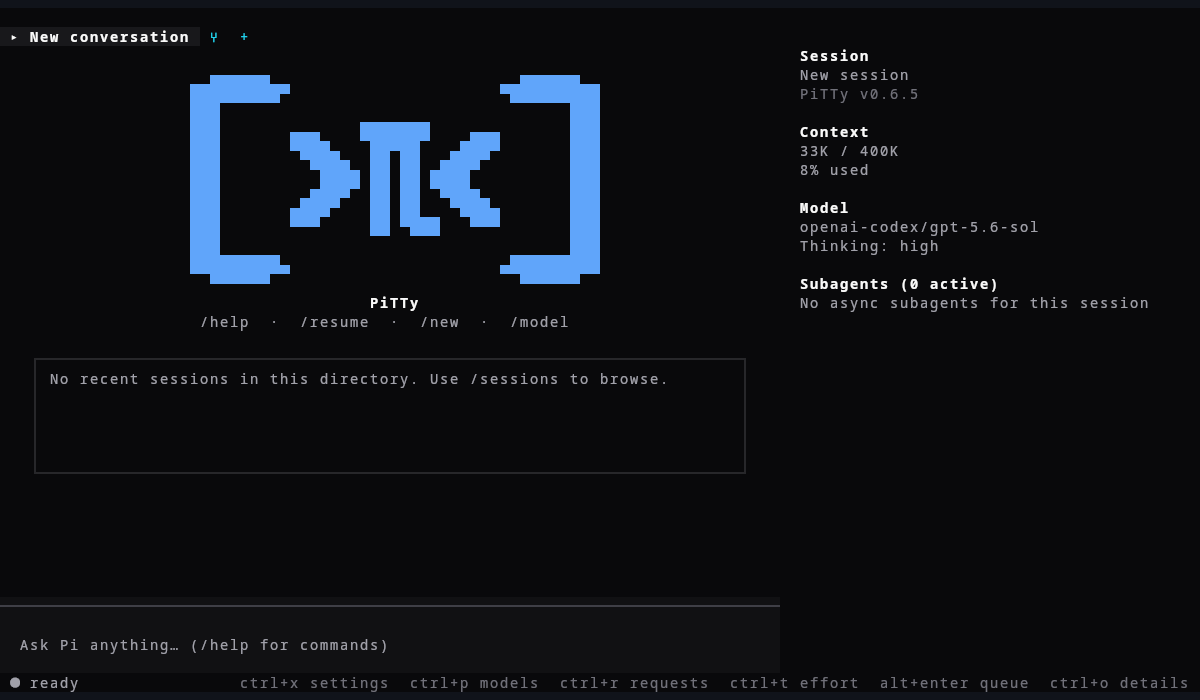
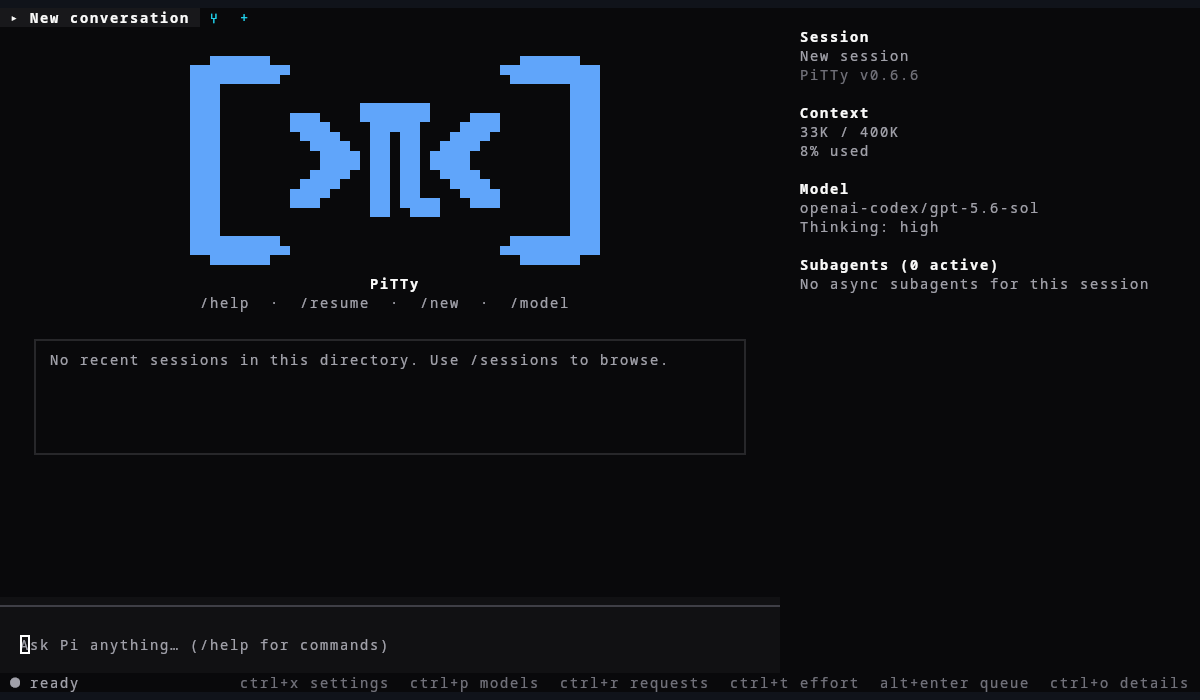
release: v0.6.6

Changed region(s): [[0.0308, 0.06, 0.555, 0.57], [0.6475, 0.03, 0.9558, 0.45], [0.0, 0.0, 0.1542, 0.06]]

diff --git a/docs/screenshots/conversation.html b/docs/screenshots/conversation.html
@@ -1,33 +1,33 @@
-<!doctype html><meta charset="utf-8"><title>PiTTy conversation ANSI diagnostic</title><style>body{background:#10131a;color:#d8dee9}pre{font:14px monospace;line-height:17px;white-space:pre}.red{color:#f66}.green{color:#6f6}.yellow{color:#ff6}.cyan{color:#6ff}.magenta{color:#f6f}.white{color:#fff}</style><pre>
- ▸ New conversation  ⑂  +&nbsp;
-▄ │                                                                             Session
-  │  Review the release workflow and summarize the risks.                       Mock Pi Session
-  │                                                                             PiTTy v0.6.5
-
-  │ ▼ Thinking                                            1 line · collapse     Context
-  │ I will inspect the workflow and verify the release path.                    — / 400K
+<!doctype html><meta charset="utf-8"><title>PiTTy conversation ANSI diagnostic</title><style>body{background:#10131a;color:#d8dee9}pre{font:14px monospace;line-height:17px;white-space:pre}.red{color:#f66}.green{color:#6f6}.yellow{color:#ff6}.cyan{color:#6ff}.magenta{color:#f6f}.white{color:#fff}</style><pre> ▸ New conversation  ⑂  +&nbsp;
+                                                                                Session
+  │                                                                             Mock Pi Session
+  │  Review the release workflow and summarize the risks.                       PiTTy v0.6.6
+  │&nbsp;&nbsp;&nbsp;&nbsp;&nbsp;&nbsp;&nbsp;&nbsp;&nbsp;&nbsp;&nbsp;&nbsp;&nbsp;&nbsp;&nbsp;&nbsp;&nbsp;&nbsp;&nbsp;&nbsp;&nbsp;&nbsp;&nbsp;&nbsp;&nbsp;&nbsp;&nbsp;&nbsp;&nbsp;&nbsp;&nbsp;&nbsp;&nbsp;&nbsp;&nbsp;&nbsp;&nbsp;&nbsp;&nbsp;&nbsp;&nbsp;&nbsp;&nbsp;&nbsp;&nbsp;&nbsp;&nbsp;&nbsp;&nbsp;&nbsp;&nbsp;&nbsp;&nbsp;&nbsp;&nbsp;&nbsp;&nbsp;&nbsp;&nbsp;&nbsp;&nbsp;&nbsp;&nbsp;&nbsp;&nbsp;&nbsp;&nbsp;&nbsp;&nbsp;&nbsp;&nbsp;&nbsp;
+                                                                                Context
+  │ ▼ Thinking                                           1 line · collapse      33K / 400K
+  │ I will inspect the workflow and verify the release path.                    8% used
   │
   │ The workflow is ready. I found one portability edge case and corrected      Model
   │ it.                                                                         openai-codex/gpt-5.6-sol
                                                                                 Thinking: high
-  <span class="green">│</span><span class="green">&nbsp;</span><span class="green"></span><span class="green">▣ TOOL · bash</span><span class="green">  { "command": "bun run typecheck" }</span><span class="green">&nbsp;&nbsp;&nbsp;&nbsp;&nbsp;&nbsp;&nbsp;&nbsp;&nbsp;&nbsp;&nbsp;&nbsp;&nbsp;&nbsp;</span><span class="green">took 0ms</span><span class="green">&nbsp;</span><span class="green">
-&nbsp;&nbsp;</span><span class="green"></span><span class="green">│</span><span class="green">&nbsp;</span><span class="green">typecheck passed</span><span class="green">&nbsp;&nbsp;&nbsp;&nbsp;&nbsp;&nbsp;&nbsp;&nbsp;&nbsp;&nbsp;&nbsp;&nbsp;&nbsp;&nbsp;&nbsp;&nbsp;&nbsp;&nbsp;&nbsp;&nbsp;&nbsp;&nbsp;&nbsp;&nbsp;&nbsp;&nbsp;&nbsp;&nbsp;&nbsp;&nbsp;&nbsp;&nbsp;&nbsp;&nbsp;&nbsp;&nbsp;&nbsp;&nbsp;&nbsp;&nbsp;&nbsp;&nbsp;&nbsp;&nbsp;&nbsp;&nbsp;&nbsp;&nbsp;&nbsp;&nbsp;&nbsp;&nbsp;&nbsp;&nbsp;&nbsp;&nbsp;</span><span class="green">&nbsp;&nbsp;&nbsp;&nbsp;</span><span class="green"></span><span class="green">Subagents (0 active)</span>
+  <span class="green">│</span><span class="green">&nbsp;</span><span class="green"></span><span class="green">▣ TOOL · bash</span><span class="green">  { "command": "bun run typecheck" }</span><span class="green">&nbsp;&nbsp;&nbsp;&nbsp;&nbsp;&nbsp;&nbsp;&nbsp;&nbsp;&nbsp;&nbsp;&nbsp;&nbsp;</span><span class="green">took 0ms</span><span class="green">&nbsp;</span><span class="green">
+&nbsp;&nbsp;</span><span class="green"></span><span class="green">│</span><span class="green">&nbsp;</span><span class="green">typecheck passed</span><span class="green">&nbsp;&nbsp;&nbsp;&nbsp;&nbsp;&nbsp;&nbsp;&nbsp;&nbsp;&nbsp;&nbsp;&nbsp;&nbsp;&nbsp;&nbsp;&nbsp;&nbsp;&nbsp;&nbsp;&nbsp;&nbsp;&nbsp;&nbsp;&nbsp;&nbsp;&nbsp;&nbsp;&nbsp;&nbsp;&nbsp;&nbsp;&nbsp;&nbsp;&nbsp;&nbsp;&nbsp;&nbsp;&nbsp;&nbsp;&nbsp;&nbsp;&nbsp;&nbsp;&nbsp;&nbsp;&nbsp;&nbsp;&nbsp;&nbsp;&nbsp;&nbsp;&nbsp;&nbsp;&nbsp;&nbsp;</span><span class="green">&nbsp;&nbsp;&nbsp;&nbsp;&nbsp;</span><span class="green"></span><span class="green">Subagents (0 active)</span>
                                                                                 No async subagents for this session
   │ I also checked the sidebar state and tab ownership.
 
-  │ ◆ TOOL · edit  { "path": "src/app.tsx" }                       took 0ms&nbsp;
-  │ Updated src/app.tsx&nbsp;&nbsp;&nbsp;&nbsp;&nbsp;&nbsp;&nbsp;&nbsp;&nbsp;&nbsp;&nbsp;&nbsp;&nbsp;&nbsp;&nbsp;&nbsp;&nbsp;&nbsp;&nbsp;&nbsp;&nbsp;&nbsp;&nbsp;&nbsp;&nbsp;&nbsp;&nbsp;&nbsp;&nbsp;&nbsp;&nbsp;&nbsp;&nbsp;&nbsp;&nbsp;&nbsp;&nbsp;&nbsp;&nbsp;&nbsp;&nbsp;&nbsp;&nbsp;&nbsp;&nbsp;&nbsp;&nbsp;&nbsp;&nbsp;&nbsp;&nbsp;&nbsp;&nbsp;
-  │ @@ -1 +1 @@&nbsp;&nbsp;&nbsp;&nbsp;&nbsp;&nbsp;&nbsp;&nbsp;&nbsp;&nbsp;&nbsp;&nbsp;&nbsp;&nbsp;&nbsp;&nbsp;&nbsp;&nbsp;&nbsp;&nbsp;&nbsp;&nbsp;&nbsp;&nbsp;&nbsp;&nbsp;&nbsp;&nbsp;&nbsp;&nbsp;&nbsp;&nbsp;&nbsp;&nbsp;&nbsp;&nbsp;&nbsp;&nbsp;&nbsp;&nbsp;&nbsp;&nbsp;&nbsp;&nbsp;&nbsp;&nbsp;&nbsp;&nbsp;&nbsp;&nbsp;&nbsp;&nbsp;&nbsp;&nbsp;&nbsp;&nbsp;&nbsp;&nbsp;&nbsp;&nbsp;&nbsp;
-  │ - stale&nbsp;&nbsp;&nbsp;&nbsp;&nbsp;&nbsp;&nbsp;&nbsp;&nbsp;&nbsp;&nbsp;&nbsp;&nbsp;&nbsp;&nbsp;&nbsp;&nbsp;&nbsp;&nbsp;&nbsp;&nbsp;&nbsp;&nbsp;&nbsp;&nbsp;&nbsp;&nbsp;&nbsp;&nbsp;&nbsp;&nbsp;&nbsp;&nbsp;&nbsp;&nbsp;&nbsp;&nbsp;&nbsp;&nbsp;&nbsp;&nbsp;&nbsp;&nbsp;&nbsp;&nbsp;&nbsp;&nbsp;&nbsp;&nbsp;&nbsp;&nbsp;&nbsp;&nbsp;&nbsp;&nbsp;&nbsp;&nbsp;&nbsp;&nbsp;&nbsp;&nbsp;&nbsp;&nbsp;&nbsp;&nbsp;
-  │ + reactive&nbsp;&nbsp;&nbsp;&nbsp;&nbsp;&nbsp;&nbsp;&nbsp;&nbsp;&nbsp;&nbsp;&nbsp;&nbsp;&nbsp;&nbsp;&nbsp;&nbsp;&nbsp;&nbsp;&nbsp;&nbsp;&nbsp;&nbsp;&nbsp;&nbsp;&nbsp;&nbsp;&nbsp;&nbsp;&nbsp;&nbsp;&nbsp;&nbsp;&nbsp;&nbsp;&nbsp;&nbsp;&nbsp;&nbsp;&nbsp;&nbsp;&nbsp;&nbsp;&nbsp;&nbsp;&nbsp;&nbsp;&nbsp;&nbsp;&nbsp;&nbsp;&nbsp;&nbsp;&nbsp;&nbsp;&nbsp;&nbsp;&nbsp;&nbsp;&nbsp;&nbsp;&nbsp;
+  │ ◆ TOOL · edit  { "path": "src/app.tsx" }                      took 0ms&nbsp;
+  │ Updated src/app.tsx&nbsp;&nbsp;&nbsp;&nbsp;&nbsp;&nbsp;&nbsp;&nbsp;&nbsp;&nbsp;&nbsp;&nbsp;&nbsp;&nbsp;&nbsp;&nbsp;&nbsp;&nbsp;&nbsp;&nbsp;&nbsp;&nbsp;&nbsp;&nbsp;&nbsp;&nbsp;&nbsp;&nbsp;&nbsp;&nbsp;&nbsp;&nbsp;&nbsp;&nbsp;&nbsp;&nbsp;&nbsp;&nbsp;&nbsp;&nbsp;&nbsp;&nbsp;&nbsp;&nbsp;&nbsp;&nbsp;&nbsp;&nbsp;&nbsp;&nbsp;&nbsp;&nbsp;
+  │ @@ -1 +1 @@&nbsp;&nbsp;&nbsp;&nbsp;&nbsp;&nbsp;&nbsp;&nbsp;&nbsp;&nbsp;&nbsp;&nbsp;&nbsp;&nbsp;&nbsp;&nbsp;&nbsp;&nbsp;&nbsp;&nbsp;&nbsp;&nbsp;&nbsp;&nbsp;&nbsp;&nbsp;&nbsp;&nbsp;&nbsp;&nbsp;&nbsp;&nbsp;&nbsp;&nbsp;&nbsp;&nbsp;&nbsp;&nbsp;&nbsp;&nbsp;&nbsp;&nbsp;&nbsp;&nbsp;&nbsp;&nbsp;&nbsp;&nbsp;&nbsp;&nbsp;&nbsp;&nbsp;&nbsp;&nbsp;&nbsp;&nbsp;&nbsp;&nbsp;&nbsp;&nbsp;
+  │ - stale&nbsp;&nbsp;&nbsp;&nbsp;&nbsp;&nbsp;&nbsp;&nbsp;&nbsp;&nbsp;&nbsp;&nbsp;&nbsp;&nbsp;&nbsp;&nbsp;&nbsp;&nbsp;&nbsp;&nbsp;&nbsp;&nbsp;&nbsp;&nbsp;&nbsp;&nbsp;&nbsp;&nbsp;&nbsp;&nbsp;&nbsp;&nbsp;&nbsp;&nbsp;&nbsp;&nbsp;&nbsp;&nbsp;&nbsp;&nbsp;&nbsp;&nbsp;&nbsp;&nbsp;&nbsp;&nbsp;&nbsp;&nbsp;&nbsp;&nbsp;&nbsp;&nbsp;&nbsp;&nbsp;&nbsp;&nbsp;&nbsp;&nbsp;&nbsp;&nbsp;&nbsp;&nbsp;&nbsp;&nbsp;
+  │ + reactive&nbsp;&nbsp;&nbsp;&nbsp;&nbsp;&nbsp;&nbsp;&nbsp;&nbsp;&nbsp;&nbsp;&nbsp;&nbsp;&nbsp;&nbsp;&nbsp;&nbsp;&nbsp;&nbsp;&nbsp;&nbsp;&nbsp;&nbsp;&nbsp;&nbsp;&nbsp;&nbsp;&nbsp;&nbsp;&nbsp;&nbsp;&nbsp;&nbsp;&nbsp;&nbsp;&nbsp;&nbsp;&nbsp;&nbsp;&nbsp;&nbsp;&nbsp;&nbsp;&nbsp;&nbsp;&nbsp;&nbsp;&nbsp;&nbsp;&nbsp;&nbsp;&nbsp;&nbsp;&nbsp;&nbsp;&nbsp;&nbsp;&nbsp;&nbsp;&nbsp;&nbsp;
 
-  <span class="magenta">│</span><span class="magenta">&nbsp;</span><span class="magenta"></span><span class="magenta">◇ TOOL · reviewer · gpt-5.6 · background · ✓ completed · took 0ms</span><span class="magenta">&nbsp;&nbsp;&nbsp;&nbsp;&nbsp;&nbsp;&nbsp;</span><span class="magenta">
-&nbsp;&nbsp;</span><span class="magenta"></span><span class="magenta">│</span><span class="magenta">&nbsp;</span><span class="magenta">Check tab state.</span><span class="magenta">&nbsp;&nbsp;&nbsp;&nbsp;&nbsp;&nbsp;&nbsp;&nbsp;&nbsp;&nbsp;&nbsp;&nbsp;&nbsp;&nbsp;&nbsp;&nbsp;&nbsp;&nbsp;&nbsp;&nbsp;&nbsp;&nbsp;&nbsp;&nbsp;&nbsp;&nbsp;&nbsp;&nbsp;&nbsp;&nbsp;&nbsp;&nbsp;&nbsp;&nbsp;&nbsp;&nbsp;&nbsp;&nbsp;&nbsp;&nbsp;&nbsp;&nbsp;&nbsp;&nbsp;&nbsp;&nbsp;&nbsp;&nbsp;&nbsp;&nbsp;&nbsp;&nbsp;&nbsp;&nbsp;&nbsp;&nbsp;</span><span class="magenta">
-&nbsp;&nbsp;</span><span class="magenta"></span><span class="magenta">│</span><span class="magenta">&nbsp;</span><span class="magenta">Review complete: tab state remains isolated and reactive.</span><span class="magenta">&nbsp;&nbsp;&nbsp;&nbsp;&nbsp;&nbsp;&nbsp;&nbsp;&nbsp;&nbsp;&nbsp;&nbsp;&nbsp;&nbsp;&nbsp;</span><span class="magenta">
-
-&nbsp;&nbsp;&nbsp;</span><span class="magenta">· supervisor: Supervisor: release review complete; no blockers.&nbsp;</span><span class="magenta">
-&nbsp;&nbsp;&nbsp;</span><span class="magenta">SCREENSHOT-rich</span><span class="magenta">
-
+  <span class="magenta">│</span><span class="magenta">&nbsp;</span><span class="magenta"></span><span class="magenta">◇ TOOL · reviewer · gpt-5.6 · background · ✓ completed · took 0ms</span><span class="magenta">&nbsp;&nbsp;&nbsp;&nbsp;&nbsp;&nbsp;</span><span class="magenta">
+&nbsp;&nbsp;</span><span class="magenta"></span><span class="magenta">│</span><span class="magenta">&nbsp;</span><span class="magenta">Check tab state.</span><span class="magenta">&nbsp;&nbsp;&nbsp;&nbsp;&nbsp;&nbsp;&nbsp;&nbsp;&nbsp;&nbsp;&nbsp;&nbsp;&nbsp;&nbsp;&nbsp;&nbsp;&nbsp;&nbsp;&nbsp;&nbsp;&nbsp;&nbsp;&nbsp;&nbsp;&nbsp;&nbsp;&nbsp;&nbsp;&nbsp;&nbsp;&nbsp;&nbsp;&nbsp;&nbsp;&nbsp;&nbsp;&nbsp;&nbsp;&nbsp;&nbsp;&nbsp;&nbsp;&nbsp;&nbsp;&nbsp;&nbsp;&nbsp;&nbsp;&nbsp;&nbsp;&nbsp;&nbsp;&nbsp;&nbsp;&nbsp;</span><span class="magenta">
+&nbsp;&nbsp;</span><span class="magenta"></span><span class="magenta">│</span><span class="magenta">&nbsp;</span><span class="magenta">Review complete: tab state remains isolated and reactive.</span><span class="magenta">&nbsp;&nbsp;&nbsp;&nbsp;&nbsp;&nbsp;&nbsp;&nbsp;&nbsp;&nbsp;&nbsp;&nbsp;&nbsp;&nbsp;</span><span class="magenta">&nbsp;&nbsp;</span><span class="magenta">▄</span><span class="magenta">
+&nbsp;&nbsp;&nbsp;&nbsp;&nbsp;&nbsp;&nbsp;&nbsp;&nbsp;&nbsp;&nbsp;&nbsp;&nbsp;&nbsp;&nbsp;&nbsp;&nbsp;&nbsp;&nbsp;&nbsp;&nbsp;&nbsp;&nbsp;&nbsp;&nbsp;&nbsp;&nbsp;&nbsp;&nbsp;&nbsp;&nbsp;&nbsp;&nbsp;&nbsp;&nbsp;&nbsp;&nbsp;&nbsp;&nbsp;&nbsp;&nbsp;&nbsp;&nbsp;&nbsp;&nbsp;&nbsp;&nbsp;&nbsp;&nbsp;&nbsp;&nbsp;&nbsp;&nbsp;&nbsp;&nbsp;&nbsp;&nbsp;&nbsp;&nbsp;&nbsp;&nbsp;&nbsp;&nbsp;&nbsp;&nbsp;&nbsp;&nbsp;&nbsp;&nbsp;&nbsp;&nbsp;&nbsp;&nbsp;&nbsp;&nbsp;&nbsp;&nbsp;</span><span class="magenta">█</span><span class="magenta">
+&nbsp;&nbsp;&nbsp;</span><span class="magenta">· supervisor: Supervisor: release review complete; no blockers.&nbsp;</span><span class="magenta">&nbsp;&nbsp;&nbsp;&nbsp;&nbsp;&nbsp;&nbsp;&nbsp;&nbsp;&nbsp;</span><span class="magenta">█</span><span class="magenta">
+&nbsp;&nbsp;&nbsp;</span><span class="magenta">SCREENSHOT-rich</span><span class="magenta">&nbsp;&nbsp;&nbsp;&nbsp;&nbsp;&nbsp;&nbsp;&nbsp;&nbsp;&nbsp;&nbsp;&nbsp;&nbsp;&nbsp;&nbsp;&nbsp;&nbsp;&nbsp;&nbsp;&nbsp;&nbsp;&nbsp;&nbsp;&nbsp;&nbsp;&nbsp;&nbsp;&nbsp;&nbsp;&nbsp;&nbsp;&nbsp;&nbsp;&nbsp;&nbsp;&nbsp;&nbsp;&nbsp;&nbsp;&nbsp;&nbsp;&nbsp;&nbsp;&nbsp;&nbsp;&nbsp;&nbsp;&nbsp;&nbsp;&nbsp;&nbsp;&nbsp;&nbsp;&nbsp;&nbsp;&nbsp;&nbsp;&nbsp;&nbsp;</span><span class="magenta">█</span><span class="magenta">
+&nbsp;&nbsp;&nbsp;&nbsp;&nbsp;&nbsp;&nbsp;&nbsp;&nbsp;&nbsp;&nbsp;&nbsp;&nbsp;&nbsp;&nbsp;&nbsp;&nbsp;&nbsp;&nbsp;&nbsp;&nbsp;&nbsp;&nbsp;&nbsp;&nbsp;&nbsp;&nbsp;&nbsp;&nbsp;&nbsp;&nbsp;&nbsp;&nbsp;&nbsp;&nbsp;&nbsp;&nbsp;&nbsp;&nbsp;&nbsp;&nbsp;&nbsp;&nbsp;&nbsp;&nbsp;&nbsp;&nbsp;&nbsp;&nbsp;&nbsp;&nbsp;&nbsp;&nbsp;&nbsp;&nbsp;&nbsp;&nbsp;&nbsp;&nbsp;&nbsp;&nbsp;&nbsp;&nbsp;&nbsp;&nbsp;&nbsp;&nbsp;&nbsp;&nbsp;&nbsp;&nbsp;&nbsp;&nbsp;&nbsp;&nbsp;&nbsp;&nbsp;</span><span class="magenta">█</span><span class="magenta">
 
 </span><span class="magenta"></span><span class="magenta">──────────────────────────────────────────────────────────────────────────────</span><span class="magenta"></span><span class="magenta">
 </span><span class="magenta">&nbsp;&nbsp;&nbsp;&nbsp;&nbsp;&nbsp;&nbsp;&nbsp;&nbsp;&nbsp;&nbsp;&nbsp;&nbsp;&nbsp;&nbsp;&nbsp;&nbsp;&nbsp;&nbsp;&nbsp;&nbsp;&nbsp;&nbsp;&nbsp;&nbsp;&nbsp;&nbsp;&nbsp;&nbsp;&nbsp;&nbsp;&nbsp;&nbsp;&nbsp;&nbsp;&nbsp;&nbsp;&nbsp;&nbsp;&nbsp;&nbsp;&nbsp;&nbsp;&nbsp;&nbsp;&nbsp;&nbsp;&nbsp;&nbsp;&nbsp;&nbsp;&nbsp;&nbsp;&nbsp;&nbsp;&nbsp;&nbsp;&nbsp;&nbsp;&nbsp;&nbsp;&nbsp;&nbsp;&nbsp;&nbsp;&nbsp;&nbsp;&nbsp;&nbsp;&nbsp;&nbsp;&nbsp;&nbsp;&nbsp;&nbsp;&nbsp;&nbsp;&nbsp;</span><span class="magenta">

diff --git a/docs/screenshots/tab-strip.html b/docs/screenshots/tab-strip.html
@@ -1,19 +1,19 @@
-<!doctype html><meta charset="utf-8"><title>PiTTy tab-strip ANSI diagnostic</title><style>body{background:#10131a;color:#d8dee9}pre{font:14px monospace;line-height:17px;white-space:pre}.red{color:#f66}.green{color:#6f6}.yellow{color:#ff6}.cyan{color:#6ff}.magenta{color:#f6f}.white{color:#fff}</style><pre>
- ▸ New conversation  ⑂  +&nbsp;
-  │                                                                             Session
-  │  Review the release workflow and summarize the risks.                       Mock Pi Session
-  │                                                                             PiTTy v0.6.5
-
-  │ ▼ Thinking                                           1 line · collapse      Context
-  │ I will inspect the workflow and verify the release path.                    33K / 400K
-  │                                                                             8% used
-  │ The workflow is ready. I found one portability edge case and corrected&nbsp;
-  │ it.                                                                         Model
-                                                                                openai-codex/gpt-5.6-sol
-  <span class="green">│</span><span class="green">&nbsp;</span><span class="green"></span><span class="green">▣ TOOL · bash</span><span class="green">  { "command": "bun run typecheck" }</span><span class="green">&nbsp;&nbsp;&nbsp;&nbsp;&nbsp;&nbsp;&nbsp;&nbsp;&nbsp;&nbsp;&nbsp;&nbsp;&nbsp;</span><span class="green">took 0ms</span><span class="green">&nbsp;</span><span class="green">&nbsp;&nbsp;&nbsp;&nbsp;&nbsp;</span><span class="green">Thinking: high</span><span class="green">
-&nbsp;&nbsp;</span><span class="green"></span><span class="green">│</span><span class="green">&nbsp;</span><span class="green">typecheck passed</span><span class="green">&nbsp;&nbsp;&nbsp;&nbsp;&nbsp;&nbsp;&nbsp;&nbsp;&nbsp;&nbsp;&nbsp;&nbsp;&nbsp;&nbsp;&nbsp;&nbsp;&nbsp;&nbsp;&nbsp;&nbsp;&nbsp;&nbsp;&nbsp;&nbsp;&nbsp;&nbsp;&nbsp;&nbsp;&nbsp;&nbsp;&nbsp;&nbsp;&nbsp;&nbsp;&nbsp;&nbsp;&nbsp;&nbsp;&nbsp;&nbsp;&nbsp;&nbsp;&nbsp;&nbsp;&nbsp;&nbsp;&nbsp;&nbsp;&nbsp;&nbsp;&nbsp;&nbsp;&nbsp;&nbsp;&nbsp;</span><span class="green">
-&nbsp;&nbsp;&nbsp;&nbsp;&nbsp;&nbsp;&nbsp;&nbsp;&nbsp;&nbsp;&nbsp;&nbsp;&nbsp;&nbsp;&nbsp;&nbsp;&nbsp;&nbsp;&nbsp;&nbsp;&nbsp;&nbsp;&nbsp;&nbsp;&nbsp;&nbsp;&nbsp;&nbsp;&nbsp;&nbsp;&nbsp;&nbsp;&nbsp;&nbsp;&nbsp;&nbsp;&nbsp;&nbsp;&nbsp;&nbsp;&nbsp;&nbsp;&nbsp;&nbsp;&nbsp;&nbsp;&nbsp;&nbsp;&nbsp;&nbsp;&nbsp;&nbsp;&nbsp;&nbsp;&nbsp;&nbsp;&nbsp;&nbsp;&nbsp;&nbsp;&nbsp;&nbsp;&nbsp;&nbsp;&nbsp;&nbsp;&nbsp;&nbsp;&nbsp;&nbsp;&nbsp;&nbsp;&nbsp;&nbsp;&nbsp;&nbsp;&nbsp;&nbsp;&nbsp;&nbsp;</span><span class="green"></span><span class="green">Subagents (0 active)</span>
-  │ I also checked the sidebar state and tab ownership.                         No async subagents for this session
+<!doctype html><meta charset="utf-8"><title>PiTTy tab-strip ANSI diagnostic</title><style>body{background:#10131a;color:#d8dee9}pre{font:14px monospace;line-height:17px;white-space:pre}.red{color:#f66}.green{color:#6f6}.yellow{color:#ff6}.cyan{color:#6ff}.magenta{color:#f6f}.white{color:#fff}</style><pre> ▸ New conversation  ⑂  +&nbsp;
+                                                                                Session
+  │                                                                             Mock Pi Session
+  │  Review the release workflow and summarize the risks.                       PiTTy v0.6.6
+  │&nbsp;&nbsp;&nbsp;&nbsp;&nbsp;&nbsp;&nbsp;&nbsp;&nbsp;&nbsp;&nbsp;&nbsp;&nbsp;&nbsp;&nbsp;&nbsp;&nbsp;&nbsp;&nbsp;&nbsp;&nbsp;&nbsp;&nbsp;&nbsp;&nbsp;&nbsp;&nbsp;&nbsp;&nbsp;&nbsp;&nbsp;&nbsp;&nbsp;&nbsp;&nbsp;&nbsp;&nbsp;&nbsp;&nbsp;&nbsp;&nbsp;&nbsp;&nbsp;&nbsp;&nbsp;&nbsp;&nbsp;&nbsp;&nbsp;&nbsp;&nbsp;&nbsp;&nbsp;&nbsp;&nbsp;&nbsp;&nbsp;&nbsp;&nbsp;&nbsp;&nbsp;&nbsp;&nbsp;&nbsp;&nbsp;&nbsp;&nbsp;&nbsp;&nbsp;&nbsp;&nbsp;&nbsp;
+                                                                                Context
+  │ ▼ Thinking                                           1 line · collapse      33K / 400K
+  │ I will inspect the workflow and verify the release path.                    8% used
+  │
+  │ The workflow is ready. I found one portability edge case and corrected      Model
+  │ it.                                                                         openai-codex/gpt-5.6-sol
+                                                                                Thinking: high
+  <span class="green">│</span><span class="green">&nbsp;</span><span class="green"></span><span class="green">▣ TOOL · bash</span><span class="green">  { "command": "bun run typecheck" }</span><span class="green">&nbsp;&nbsp;&nbsp;&nbsp;&nbsp;&nbsp;&nbsp;&nbsp;&nbsp;&nbsp;&nbsp;&nbsp;&nbsp;</span><span class="green">took 0ms</span><span class="green">&nbsp;</span><span class="green">
+&nbsp;&nbsp;</span><span class="green"></span><span class="green">│</span><span class="green">&nbsp;</span><span class="green">typecheck passed</span><span class="green">&nbsp;&nbsp;&nbsp;&nbsp;&nbsp;&nbsp;&nbsp;&nbsp;&nbsp;&nbsp;&nbsp;&nbsp;&nbsp;&nbsp;&nbsp;&nbsp;&nbsp;&nbsp;&nbsp;&nbsp;&nbsp;&nbsp;&nbsp;&nbsp;&nbsp;&nbsp;&nbsp;&nbsp;&nbsp;&nbsp;&nbsp;&nbsp;&nbsp;&nbsp;&nbsp;&nbsp;&nbsp;&nbsp;&nbsp;&nbsp;&nbsp;&nbsp;&nbsp;&nbsp;&nbsp;&nbsp;&nbsp;&nbsp;&nbsp;&nbsp;&nbsp;&nbsp;&nbsp;&nbsp;&nbsp;</span><span class="green">&nbsp;&nbsp;&nbsp;&nbsp;&nbsp;</span><span class="green"></span><span class="green">Subagents (0 active)</span>
+                                                                                No async subagents for this session
+  │ I also checked the sidebar state and tab ownership.
 
   │ ◆ TOOL · edit  { "path": "src/app.tsx" }                      took 0ms&nbsp;
   │ Updated src/app.tsx&nbsp;&nbsp;&nbsp;&nbsp;&nbsp;&nbsp;&nbsp;&nbsp;&nbsp;&nbsp;&nbsp;&nbsp;&nbsp;&nbsp;&nbsp;&nbsp;&nbsp;&nbsp;&nbsp;&nbsp;&nbsp;&nbsp;&nbsp;&nbsp;&nbsp;&nbsp;&nbsp;&nbsp;&nbsp;&nbsp;&nbsp;&nbsp;&nbsp;&nbsp;&nbsp;&nbsp;&nbsp;&nbsp;&nbsp;&nbsp;&nbsp;&nbsp;&nbsp;&nbsp;&nbsp;&nbsp;&nbsp;&nbsp;&nbsp;&nbsp;&nbsp;&nbsp;
@@ -23,7 +23,7 @@
 
   <span class="magenta">│</span><span class="magenta">&nbsp;</span><span class="magenta"></span><span class="magenta">◇ TOOL · reviewer · gpt-5.6 · background · ✓ completed · took 0ms</span><span class="magenta">&nbsp;&nbsp;&nbsp;&nbsp;&nbsp;&nbsp;</span><span class="magenta">
 &nbsp;&nbsp;</span><span class="magenta"></span><span class="magenta">│</span><span class="magenta">&nbsp;</span><span class="magenta">Check tab state.</span><span class="magenta">&nbsp;&nbsp;&nbsp;&nbsp;&nbsp;&nbsp;&nbsp;&nbsp;&nbsp;&nbsp;&nbsp;&nbsp;&nbsp;&nbsp;&nbsp;&nbsp;&nbsp;&nbsp;&nbsp;&nbsp;&nbsp;&nbsp;&nbsp;&nbsp;&nbsp;&nbsp;&nbsp;&nbsp;&nbsp;&nbsp;&nbsp;&nbsp;&nbsp;&nbsp;&nbsp;&nbsp;&nbsp;&nbsp;&nbsp;&nbsp;&nbsp;&nbsp;&nbsp;&nbsp;&nbsp;&nbsp;&nbsp;&nbsp;&nbsp;&nbsp;&nbsp;&nbsp;&nbsp;&nbsp;&nbsp;</span><span class="magenta">
-&nbsp;&nbsp;</span><span class="magenta"></span><span class="magenta">│</span><span class="magenta">&nbsp;</span><span class="magenta">Review complete: tab state remains isolated and reactive.</span><span class="magenta">&nbsp;&nbsp;&nbsp;&nbsp;&nbsp;&nbsp;&nbsp;&nbsp;&nbsp;&nbsp;&nbsp;&nbsp;&nbsp;&nbsp;</span><span class="magenta">
+&nbsp;&nbsp;</span><span class="magenta"></span><span class="magenta">│</span><span class="magenta">&nbsp;</span><span class="magenta">Review complete: tab state remains isolated and reactive.</span><span class="magenta">&nbsp;&nbsp;&nbsp;&nbsp;&nbsp;&nbsp;&nbsp;&nbsp;&nbsp;&nbsp;&nbsp;&nbsp;&nbsp;&nbsp;</span><span class="magenta">&nbsp;&nbsp;</span><span class="magenta">▄</span><span class="magenta">
 &nbsp;&nbsp;&nbsp;&nbsp;&nbsp;&nbsp;&nbsp;&nbsp;&nbsp;&nbsp;&nbsp;&nbsp;&nbsp;&nbsp;&nbsp;&nbsp;&nbsp;&nbsp;&nbsp;&nbsp;&nbsp;&nbsp;&nbsp;&nbsp;&nbsp;&nbsp;&nbsp;&nbsp;&nbsp;&nbsp;&nbsp;&nbsp;&nbsp;&nbsp;&nbsp;&nbsp;&nbsp;&nbsp;&nbsp;&nbsp;&nbsp;&nbsp;&nbsp;&nbsp;&nbsp;&nbsp;&nbsp;&nbsp;&nbsp;&nbsp;&nbsp;&nbsp;&nbsp;&nbsp;&nbsp;&nbsp;&nbsp;&nbsp;&nbsp;&nbsp;&nbsp;&nbsp;&nbsp;&nbsp;&nbsp;&nbsp;&nbsp;&nbsp;&nbsp;&nbsp;&nbsp;&nbsp;&nbsp;&nbsp;&nbsp;&nbsp;&nbsp;</span><span class="magenta">█</span><span class="magenta">
 &nbsp;&nbsp;&nbsp;</span><span class="magenta">· supervisor: Supervisor: release review complete; no blockers.&nbsp;</span><span class="magenta">&nbsp;&nbsp;&nbsp;&nbsp;&nbsp;&nbsp;&nbsp;&nbsp;&nbsp;&nbsp;</span><span class="magenta">█</span><span class="magenta">
 &nbsp;&nbsp;&nbsp;</span><span class="magenta">SCREENSHOT-rich</span><span class="magenta">&nbsp;&nbsp;&nbsp;&nbsp;&nbsp;&nbsp;&nbsp;&nbsp;&nbsp;&nbsp;&nbsp;&nbsp;&nbsp;&nbsp;&nbsp;&nbsp;&nbsp;&nbsp;&nbsp;&nbsp;&nbsp;&nbsp;&nbsp;&nbsp;&nbsp;&nbsp;&nbsp;&nbsp;&nbsp;&nbsp;&nbsp;&nbsp;&nbsp;&nbsp;&nbsp;&nbsp;&nbsp;&nbsp;&nbsp;&nbsp;&nbsp;&nbsp;&nbsp;&nbsp;&nbsp;&nbsp;&nbsp;&nbsp;&nbsp;&nbsp;&nbsp;&nbsp;&nbsp;&nbsp;&nbsp;&nbsp;&nbsp;&nbsp;&nbsp;</span><span class="magenta">█</span><span class="magenta">

diff --git a/docs/screenshots/model-selector.html b/docs/screenshots/model-selector.html
@@ -1,6 +1,6 @@
-<!doctype html><meta charset="utf-8"><title>PiTTy model-selector ANSI diagnostic</title><style>body{background:#10131a;color:#d8dee9}pre{font:14px monospace;line-height:17px;white-space:pre}.red{color:#f66}.green{color:#6f6}.yellow{color:#ff6}.cyan{color:#6ff}.magenta{color:#f6f}.white{color:#fff}</style><pre>
- ▸ New conversation  ⑂  +&nbsp;
-  │                                                                             Session
+<!doctype html><meta charset="utf-8"><title>PiTTy model-selector ANSI diagnostic</title><style>body{background:#10131a;color:#d8dee9}pre{font:14px monospace;line-height:17px;white-space:pre}.red{color:#f66}.green{color:#6f6}.yellow{color:#ff6}.cyan{color:#6ff}.magenta{color:#f6f}.white{color:#fff}</style><pre> ▸ New conversation  ⑂  +&nbsp;
+                                                                                Session
+  │                                                                             Mock Pi Session
   │  Review th┌──────────────────────────────────────────────────────────────────────────────────────────┐
   │           │                                                                                          │
               │ Select model                                                                    × Close  │
@@ -12,8 +12,8 @@
               │                                                                                          │
   <span class="green">│</span><span class="green">&nbsp;</span><span class="green"></span><span class="green">▣ TOOL · b</span>│                                                                                          │
   <span class="green">│</span><span class="green">&nbsp;</span><span class="green">typecheck&nbsp;</span><span class="green"></span><span class="green">│</span><span class="green">&nbsp;&nbsp;&nbsp;&nbsp;&nbsp;&nbsp;&nbsp;&nbsp;&nbsp;&nbsp;&nbsp;&nbsp;&nbsp;&nbsp;&nbsp;&nbsp;&nbsp;&nbsp;&nbsp;&nbsp;&nbsp;&nbsp;&nbsp;&nbsp;&nbsp;&nbsp;&nbsp;&nbsp;&nbsp;&nbsp;&nbsp;&nbsp;&nbsp;&nbsp;&nbsp;&nbsp;&nbsp;&nbsp;&nbsp;&nbsp;&nbsp;&nbsp;&nbsp;&nbsp;&nbsp;&nbsp;&nbsp;&nbsp;&nbsp;&nbsp;&nbsp;&nbsp;&nbsp;&nbsp;&nbsp;&nbsp;&nbsp;&nbsp;&nbsp;&nbsp;&nbsp;&nbsp;&nbsp;&nbsp;&nbsp;&nbsp;&nbsp;&nbsp;&nbsp;&nbsp;&nbsp;&nbsp;&nbsp;&nbsp;&nbsp;&nbsp;&nbsp;&nbsp;&nbsp;&nbsp;&nbsp;&nbsp;&nbsp;&nbsp;&nbsp;&nbsp;&nbsp;&nbsp;&nbsp;&nbsp;</span><span class="green">│</span><span class="green"></span><span class="green">
-&nbsp;&nbsp;&nbsp;&nbsp;&nbsp;&nbsp;&nbsp;&nbsp;&nbsp;&nbsp;&nbsp;&nbsp;&nbsp;&nbsp;</span><span class="green"></span><span class="green">│</span><span class="green">&nbsp;&nbsp;&nbsp;&nbsp;&nbsp;&nbsp;&nbsp;&nbsp;&nbsp;&nbsp;&nbsp;&nbsp;&nbsp;&nbsp;&nbsp;&nbsp;&nbsp;&nbsp;&nbsp;&nbsp;&nbsp;&nbsp;&nbsp;&nbsp;&nbsp;&nbsp;&nbsp;&nbsp;&nbsp;&nbsp;&nbsp;&nbsp;&nbsp;&nbsp;&nbsp;&nbsp;&nbsp;&nbsp;&nbsp;&nbsp;&nbsp;&nbsp;&nbsp;&nbsp;&nbsp;&nbsp;&nbsp;&nbsp;&nbsp;&nbsp;&nbsp;&nbsp;&nbsp;&nbsp;&nbsp;&nbsp;&nbsp;&nbsp;&nbsp;&nbsp;&nbsp;&nbsp;&nbsp;&nbsp;&nbsp;&nbsp;&nbsp;&nbsp;&nbsp;&nbsp;&nbsp;&nbsp;&nbsp;&nbsp;&nbsp;&nbsp;&nbsp;&nbsp;&nbsp;&nbsp;&nbsp;&nbsp;&nbsp;&nbsp;&nbsp;&nbsp;&nbsp;&nbsp;&nbsp;&nbsp;</span><span class="green">│</span><span class="green"></span><span class="green">
-&nbsp;&nbsp;</span><span class="green">│</span><span class="green">&nbsp;</span><span class="green">I also che</span><span class="green"></span><span class="green">│</span><span class="green">&nbsp;&nbsp;&nbsp;&nbsp;&nbsp;&nbsp;&nbsp;&nbsp;&nbsp;&nbsp;&nbsp;&nbsp;&nbsp;&nbsp;&nbsp;&nbsp;&nbsp;&nbsp;&nbsp;&nbsp;&nbsp;&nbsp;&nbsp;&nbsp;&nbsp;&nbsp;&nbsp;&nbsp;&nbsp;&nbsp;&nbsp;&nbsp;&nbsp;&nbsp;&nbsp;&nbsp;&nbsp;&nbsp;&nbsp;&nbsp;&nbsp;&nbsp;&nbsp;&nbsp;&nbsp;&nbsp;&nbsp;&nbsp;&nbsp;&nbsp;&nbsp;&nbsp;&nbsp;&nbsp;&nbsp;&nbsp;&nbsp;&nbsp;&nbsp;&nbsp;&nbsp;&nbsp;&nbsp;&nbsp;&nbsp;&nbsp;&nbsp;&nbsp;&nbsp;&nbsp;&nbsp;&nbsp;&nbsp;&nbsp;&nbsp;&nbsp;&nbsp;&nbsp;&nbsp;&nbsp;&nbsp;&nbsp;&nbsp;&nbsp;&nbsp;&nbsp;&nbsp;&nbsp;&nbsp;&nbsp;</span><span class="green">│</span><span class="green"></span><span class="green">s session</span><span class="green">
+&nbsp;&nbsp;&nbsp;&nbsp;&nbsp;&nbsp;&nbsp;&nbsp;&nbsp;&nbsp;&nbsp;&nbsp;&nbsp;&nbsp;</span><span class="green"></span><span class="green">│</span><span class="green">&nbsp;&nbsp;&nbsp;&nbsp;&nbsp;&nbsp;&nbsp;&nbsp;&nbsp;&nbsp;&nbsp;&nbsp;&nbsp;&nbsp;&nbsp;&nbsp;&nbsp;&nbsp;&nbsp;&nbsp;&nbsp;&nbsp;&nbsp;&nbsp;&nbsp;&nbsp;&nbsp;&nbsp;&nbsp;&nbsp;&nbsp;&nbsp;&nbsp;&nbsp;&nbsp;&nbsp;&nbsp;&nbsp;&nbsp;&nbsp;&nbsp;&nbsp;&nbsp;&nbsp;&nbsp;&nbsp;&nbsp;&nbsp;&nbsp;&nbsp;&nbsp;&nbsp;&nbsp;&nbsp;&nbsp;&nbsp;&nbsp;&nbsp;&nbsp;&nbsp;&nbsp;&nbsp;&nbsp;&nbsp;&nbsp;&nbsp;&nbsp;&nbsp;&nbsp;&nbsp;&nbsp;&nbsp;&nbsp;&nbsp;&nbsp;&nbsp;&nbsp;&nbsp;&nbsp;&nbsp;&nbsp;&nbsp;&nbsp;&nbsp;&nbsp;&nbsp;&nbsp;&nbsp;&nbsp;&nbsp;</span><span class="green">│</span><span class="green"></span><span class="green">s session</span><span class="green">
+&nbsp;&nbsp;</span><span class="green">│</span><span class="green">&nbsp;</span><span class="green">I also che</span><span class="green"></span><span class="green">│</span><span class="green">&nbsp;&nbsp;&nbsp;&nbsp;&nbsp;&nbsp;&nbsp;&nbsp;&nbsp;&nbsp;&nbsp;&nbsp;&nbsp;&nbsp;&nbsp;&nbsp;&nbsp;&nbsp;&nbsp;&nbsp;&nbsp;&nbsp;&nbsp;&nbsp;&nbsp;&nbsp;&nbsp;&nbsp;&nbsp;&nbsp;&nbsp;&nbsp;&nbsp;&nbsp;&nbsp;&nbsp;&nbsp;&nbsp;&nbsp;&nbsp;&nbsp;&nbsp;&nbsp;&nbsp;&nbsp;&nbsp;&nbsp;&nbsp;&nbsp;&nbsp;&nbsp;&nbsp;&nbsp;&nbsp;&nbsp;&nbsp;&nbsp;&nbsp;&nbsp;&nbsp;&nbsp;&nbsp;&nbsp;&nbsp;&nbsp;&nbsp;&nbsp;&nbsp;&nbsp;&nbsp;&nbsp;&nbsp;&nbsp;&nbsp;&nbsp;&nbsp;&nbsp;&nbsp;&nbsp;&nbsp;&nbsp;&nbsp;&nbsp;&nbsp;&nbsp;&nbsp;&nbsp;&nbsp;&nbsp;&nbsp;</span><span class="green">│</span><span class="green"></span><span class="green">
 &nbsp;&nbsp;&nbsp;&nbsp;&nbsp;&nbsp;&nbsp;&nbsp;&nbsp;&nbsp;&nbsp;&nbsp;&nbsp;&nbsp;</span><span class="green"></span><span class="green">│</span><span class="green">&nbsp;&nbsp;&nbsp;&nbsp;&nbsp;&nbsp;&nbsp;&nbsp;&nbsp;&nbsp;&nbsp;&nbsp;&nbsp;&nbsp;&nbsp;&nbsp;&nbsp;&nbsp;&nbsp;&nbsp;&nbsp;&nbsp;&nbsp;&nbsp;&nbsp;&nbsp;&nbsp;&nbsp;&nbsp;&nbsp;&nbsp;&nbsp;&nbsp;&nbsp;&nbsp;&nbsp;&nbsp;&nbsp;&nbsp;&nbsp;&nbsp;&nbsp;&nbsp;&nbsp;&nbsp;&nbsp;&nbsp;&nbsp;&nbsp;&nbsp;&nbsp;&nbsp;&nbsp;&nbsp;&nbsp;&nbsp;&nbsp;&nbsp;&nbsp;&nbsp;&nbsp;&nbsp;&nbsp;&nbsp;&nbsp;&nbsp;&nbsp;&nbsp;&nbsp;&nbsp;&nbsp;&nbsp;&nbsp;&nbsp;&nbsp;&nbsp;&nbsp;&nbsp;&nbsp;&nbsp;&nbsp;&nbsp;&nbsp;&nbsp;&nbsp;&nbsp;&nbsp;&nbsp;&nbsp;&nbsp;</span><span class="green">│</span><span class="green"></span><span class="green">
 &nbsp;&nbsp;</span><span class="green"></span><span class="green">│</span><span class="green">&nbsp;</span><span class="green"></span><span class="green">◆ TOOL · e</span>│                                                                                          │
   │ Updated sr│                                                                                          │

diff --git a/docs/screenshots/long-diff.html b/docs/screenshots/long-diff.html
@@ -1,19 +1,19 @@
-<!doctype html><meta charset="utf-8"><title>PiTTy long-diff ANSI diagnostic</title><style>body{background:#10131a;color:#d8dee9}pre{font:14px monospace;line-height:17px;white-space:pre}.red{color:#f66}.green{color:#6f6}.yellow{color:#ff6}.cyan{color:#6ff}.magenta{color:#f6f}.white{color:#fff}</style><pre>
- ▸ New conversation  ⑂  +&nbsp;
-  │ Applied edit                                                                Session
-  │                                                                             Mock Pi Session
-  │ ──────────────────────────────────────────────────────────────────────      PiTTy v0.6.5
-  │&nbsp;&nbsp;&nbsp;&nbsp;&nbsp;&nbsp;&nbsp;&nbsp;&nbsp;&nbsp;&nbsp;&nbsp;&nbsp;&nbsp;&nbsp;&nbsp;&nbsp;&nbsp;&nbsp;&nbsp;&nbsp;&nbsp;&nbsp;&nbsp;&nbsp;&nbsp;&nbsp;&nbsp;&nbsp;&nbsp;&nbsp;&nbsp;&nbsp;&nbsp;&nbsp;&nbsp;&nbsp;&nbsp;&nbsp;&nbsp;&nbsp;&nbsp;&nbsp;&nbsp;&nbsp;&nbsp;&nbsp;&nbsp;&nbsp;&nbsp;&nbsp;&nbsp;&nbsp;&nbsp;&nbsp;&nbsp;&nbsp;&nbsp;&nbsp;&nbsp;&nbsp;&nbsp;&nbsp;&nbsp;&nbsp;&nbsp;&nbsp;&nbsp;&nbsp;&nbsp;&nbsp;&nbsp;
-  │ ▼ Changes +14 -14 src/large-file.ts             scroll diff · collapse      Context
-  │ + wrapped transcript diff line 1 with enough deterministic text to exe      33K / 400K
-  │ cise the scroll viewport                                                    8% used
-  │ - wrapped transcript diff line 2 with enough deterministic text to exe&nbsp;
-  │ cise the scroll viewport                                                    Model
-  │ + wrapped transcript diff line 3 with enough deterministic text to exe      openai-codex/gpt-5.6-sol
-  │ cise the scroll viewport                                                    Thinking: high
-  │ - wrapped transcript diff line 4 with enough deterministic text to exe&nbsp;
-  │ cise the scroll viewport                                                    Subagents (0 active)
-  │ + wrapped transcript diff line 5 with enough deterministic text to exe      No async subagents for this session
+<!doctype html><meta charset="utf-8"><title>PiTTy long-diff ANSI diagnostic</title><style>body{background:#10131a;color:#d8dee9}pre{font:14px monospace;line-height:17px;white-space:pre}.red{color:#f66}.green{color:#6f6}.yellow{color:#ff6}.cyan{color:#6ff}.magenta{color:#f6f}.white{color:#fff}</style><pre> ▸ New conversation  ⑂  +&nbsp;
+  │ ◆ TOOL · edit  { "path": "src/large-file.ts" }                took 0ms      Session
+  │ Applied edit                                                                Mock Pi Session
+  │                                                                             PiTTy v0.6.6
+  │ ──────────────────────────────────────────────────────────────────────&nbsp;
+  │                                                                             Context
+  │ ▼ Changes +14 -14 src/large-file.ts             scroll diff · collapse      33K / 400K
+  │ + wrapped transcript diff line 1 with enough deterministic text to exe      8% used
+  │ cise the scroll viewport&nbsp;&nbsp;&nbsp;&nbsp;&nbsp;&nbsp;&nbsp;&nbsp;&nbsp;&nbsp;&nbsp;&nbsp;&nbsp;&nbsp;&nbsp;&nbsp;&nbsp;&nbsp;&nbsp;&nbsp;&nbsp;&nbsp;&nbsp;&nbsp;&nbsp;&nbsp;&nbsp;&nbsp;&nbsp;&nbsp;&nbsp;&nbsp;&nbsp;&nbsp;&nbsp;&nbsp;&nbsp;&nbsp;&nbsp;&nbsp;&nbsp;&nbsp;&nbsp;&nbsp;&nbsp;&nbsp;&nbsp;
+  │ - wrapped transcript diff line 2 with enough deterministic text to exe      Model
+  │ cise the scroll viewport                                                    openai-codex/gpt-5.6-sol
+  │ + wrapped transcript diff line 3 with enough deterministic text to exe      Thinking: high
+  │ cise the scroll viewport&nbsp;&nbsp;&nbsp;&nbsp;&nbsp;&nbsp;&nbsp;&nbsp;&nbsp;&nbsp;&nbsp;&nbsp;&nbsp;&nbsp;&nbsp;&nbsp;&nbsp;&nbsp;&nbsp;&nbsp;&nbsp;&nbsp;&nbsp;&nbsp;&nbsp;&nbsp;&nbsp;&nbsp;&nbsp;&nbsp;&nbsp;&nbsp;&nbsp;&nbsp;&nbsp;&nbsp;&nbsp;&nbsp;&nbsp;&nbsp;&nbsp;&nbsp;&nbsp;&nbsp;&nbsp;&nbsp;&nbsp;
+  │ - wrapped transcript diff line 4 with enough deterministic text to exe      Subagents (0 active)
+  │ cise the scroll viewport                                                    No async subagents for this session
+  │ + wrapped transcript diff line 5 with enough deterministic text to exe&nbsp;
   │ cise the scroll viewport&nbsp;&nbsp;&nbsp;&nbsp;&nbsp;&nbsp;&nbsp;&nbsp;&nbsp;&nbsp;&nbsp;&nbsp;&nbsp;&nbsp;&nbsp;&nbsp;&nbsp;&nbsp;&nbsp;&nbsp;&nbsp;&nbsp;&nbsp;&nbsp;&nbsp;&nbsp;&nbsp;&nbsp;&nbsp;&nbsp;&nbsp;&nbsp;&nbsp;&nbsp;&nbsp;&nbsp;&nbsp;&nbsp;&nbsp;&nbsp;&nbsp;&nbsp;&nbsp;&nbsp;&nbsp;&nbsp;&nbsp;
   │ - wrapped transcript diff line 6 with enough deterministic text to exe&nbsp;
   │ cise the scroll viewport&nbsp;&nbsp;&nbsp;&nbsp;&nbsp;&nbsp;&nbsp;&nbsp;&nbsp;&nbsp;&nbsp;&nbsp;&nbsp;&nbsp;&nbsp;&nbsp;&nbsp;&nbsp;&nbsp;&nbsp;&nbsp;&nbsp;&nbsp;&nbsp;&nbsp;&nbsp;&nbsp;&nbsp;&nbsp;&nbsp;&nbsp;&nbsp;&nbsp;&nbsp;&nbsp;&nbsp;&nbsp;&nbsp;&nbsp;&nbsp;&nbsp;&nbsp;&nbsp;&nbsp;&nbsp;&nbsp;&nbsp;

diff --git a/test/render.test.tsx b/test/render.test.tsx
@@ -1419,7 +1419,7 @@ describe("OpenTUI components", () => {
 		expect(empty.captureCharFrame()).toContain("fork points");
 	});
 
-	test("renders a taller tab strip without overflowing constrained panes", async () => {
+	test("renders a one-row tab strip without overflowing constrained panes", async () => {
 		let activated: string | undefined;
 		let created = false;
 		let forkOpened = false;
@@ -1442,21 +1442,20 @@ describe("OpenTUI components", () => {
 		);
 		const strip = setup.renderer.root.findDescendantById("tab-strip");
 		if (!strip) throw new Error("tab strip missing");
-		expect(strip.height).toBe(2);
+		expect(strip.height).toBe(1);
 		const frame = setup.captureCharFrame();
 		const tabLines = frame.split("\n");
-		expect(tabLines[0]).not.toContain("Primary");
-		expect(tabLines[1]).toContain("Primary");
-		expect(tabLines[1]).toContain("⑂");
-		expect(tabLines[1]).toContain("+");
-		const controlsStart = tabLines[1]!.indexOf("⑂");
-		expect(controlsStart).toBeGreaterThan(tabLines[1]!.indexOf("Forked"));
-		expect(tabLines[1]!.slice(controlsStart)).toMatch(/^⑂ \+? ?/);
+		expect(tabLines[0]).toContain("Primary");
+		expect(tabLines[0]).toContain("⑂");
+		expect(tabLines[0]).toContain("+");
+		const controlsStart = tabLines[0]!.indexOf("⑂");
+		expect(controlsStart).toBeGreaterThan(tabLines[0]!.indexOf("Forked"));
+		expect(tabLines[0]!.slice(controlsStart)).toMatch(/^⑂ \+? ?/);
 		expect(frame).toContain("Primary");
 		expect(frame).toContain("Forked •2");
-		const forkColumn = tabLines[1]!.indexOf("⑂");
-		const plusColumn = tabLines[1]!.indexOf("+");
-		expect(forkColumn).toBeGreaterThan(tabLines[1]!.indexOf("Forked"));
+		const forkColumn = tabLines[0]!.indexOf("⑂");
+		const plusColumn = tabLines[0]!.indexOf("+");
+		expect(forkColumn).toBeGreaterThan(tabLines[0]!.indexOf("Forked"));
 		expect(plusColumn).toBe(forkColumn + 3);
 		for (const line of frame.split("\n")) expect(line.length).toBeLessThanOrEqual(42);
 		const row = frame.split("\n").findIndex((line) => line.includes("Forked"));
@@ -1466,10 +1465,10 @@ describe("OpenTUI components", () => {
 		);
 		await setup.flush();
 		expect(activated).toBe("two");
-		await setup.mockMouse.click(frame.split("\n")[1]!.indexOf("+"), 1);
+		await setup.mockMouse.click(frame.split("\n")[0]!.indexOf("+"), 0);
 		await setup.flush();
 		expect(created).toBe(true);
-		await setup.mockMouse.click(frame.split("\n")[1]!.indexOf("⑂"), 1);
+		await setup.mockMouse.click(frame.split("\n")[0]!.indexOf("⑂"), 0);
 		await setup.flush();
 		expect(forkOpened).toBe(true);
 	});
@@ -1493,14 +1492,14 @@ describe("OpenTUI components", () => {
 			4,
 		);
 		const frame = setup.captureCharFrame();
-		const row = frame.split("\n")[1] ?? "";
+		const row = frame.split("\n")[0] ?? "";
 		expect(row).toContain("⑂");
 		expect(row).toContain("+");
 		expect(row).not.toContain(longTitle);
-		await setup.mockMouse.click(row.indexOf("+"), 1);
+		await setup.mockMouse.click(row.indexOf("+"), 0);
 		await setup.flush();
 		expect(created).toBe(true);
-		await setup.mockMouse.click(row.indexOf("⑂"), 1);
+		await setup.mockMouse.click(row.indexOf("⑂"), 0);
 		await setup.flush();
 		expect(forkOpened).toBe(true);
 	});
@@ -1521,9 +1520,9 @@ describe("OpenTUI components", () => {
 			4,
 		);
 		const lines = setup.captureCharFrame().split("\n");
-		expect(lines[1]).toContain("⑂");
-		expect(lines[1]).toContain("+");
-		expect(lines[1]!.indexOf("+")).toBe(lines[1]!.indexOf("⑂") + 3);
+		expect(lines[0]).toContain("⑂");
+		expect(lines[0]).toContain("+");
+		expect(lines[0]!.indexOf("+")).toBe(lines[0]!.indexOf("⑂") + 3);
 	});
 
 	test("wraps long expanded diff lines instead of clipping them", async () => {

diff --git a/docs/screenshots/blank-session.html b/docs/screenshots/blank-session.html
@@ -1,8 +1,7 @@
-<!doctype html><meta charset="utf-8"><title>PiTTy blank-session ANSI diagnostic</title><style>body{background:#10131a;color:#d8dee9}pre{font:14px monospace;line-height:17px;white-space:pre}.red{color:#f66}.green{color:#6f6}.yellow{color:#ff6}.cyan{color:#6ff}.magenta{color:#f6f}.white{color:#fff}</style><pre>
- ▸ New conversation  ⑂  +&nbsp;
+<!doctype html><meta charset="utf-8"><title>PiTTy blank-session ANSI diagnostic</title><style>body{background:#10131a;color:#d8dee9}pre{font:14px monospace;line-height:17px;white-space:pre}.red{color:#f66}.green{color:#6f6}.yellow{color:#ff6}.cyan{color:#6ff}.magenta{color:#f6f}.white{color:#fff}</style><pre> ▸ New conversation  ⑂  +&nbsp;
                                                                                 Session
                      ▄▄▄▄▄▄                         ▄▄▄▄▄▄                      New session
-                   █████████▀                     ▀█████████                    PiTTy v0.6.5
+                   █████████▀                     ▀█████████                    PiTTy v0.6.6
                    ███                                   ███
                    ███       ▄▄▄    ███████    ▄▄▄       ███                    Context
                    ███       ▀███▄   ██▀██   ▄███▀       ███                    33K / 400K
@@ -23,6 +22,7 @@
    │                                                                      │
    │                                                                      │
    └──────────────────────────────────────────────────────────────────────┘
+
 
 
 

diff --git a/src/ui/tab-strip.tsx b/src/ui/tab-strip.tsx
@@ -18,9 +18,8 @@ export function TabStrip(props: TabStripProps) {
 		<box
 			id="tab-strip"
 			flexDirection="column"
-			height={2}
+			height={1}
 			width="100%"
-			paddingTop={1}
 			overflow="hidden"
 		>
 			<box height={1} minHeight={1} flexShrink={0} flexDirection="row">

diff --git a/.github/release-notes/v0.6.6.md b/.github/release-notes/v0.6.6.md
@@ -1,0 +1,15 @@
+# PiTTy v0.6.6 — stable tab controls, wrapped diffs, and native screenshots
+
+## Terminal layout
+
+- Tab controls now align consistently in the one-row tab strip and remain stable at narrow widths.
+- Wrapped diff output now keeps long lines readable without disrupting the surrounding layout or controls.
+
+## Native production screenshots
+
+- Added a native production screenshot matrix covering the supported terminal views.
+
+## Verification
+
+- Direct Bun 1.4.0 browser-conditioned suite: **401 passed, 1 skipped, 0 failed**.
+- Typecheck, native screenshot generation, diagnostics, and `git diff --check` passed.

diff --git a/CHANGELOG.md b/CHANGELOG.md
@@ -1,5 +1,18 @@
 # Changelog
 
+## 0.6.6
+
+### Terminal layout and production screenshots
+
+- Align tab controls consistently in the one-row tab strip and keep the layout stable at narrow widths.
+- Fix wrapped diff layout so long lines remain readable without disrupting controls.
+- Add a native production screenshot matrix covering the supported terminal views.
+
+### Validation
+
+- Direct Bun 1.4.0 browser-conditioned suite: 401 passed, 1 skipped, 0 failed.
+- Typecheck, native screenshot generation, diagnostics, and `git diff --check` passed.
+
 ## 0.6.5
 
 ### Model performance history
